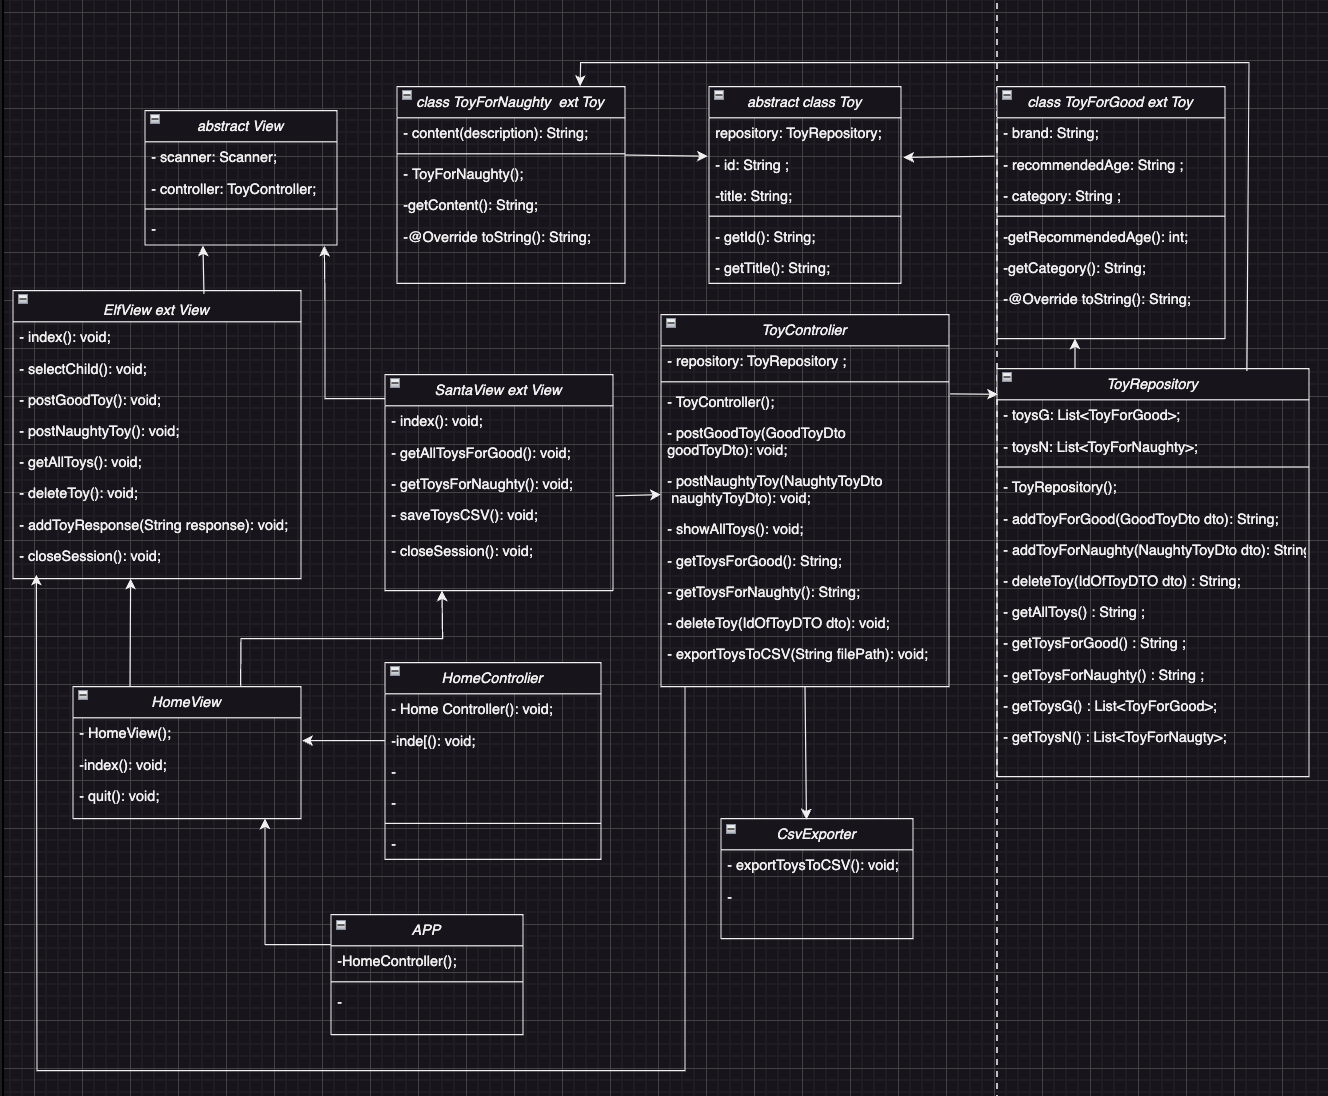
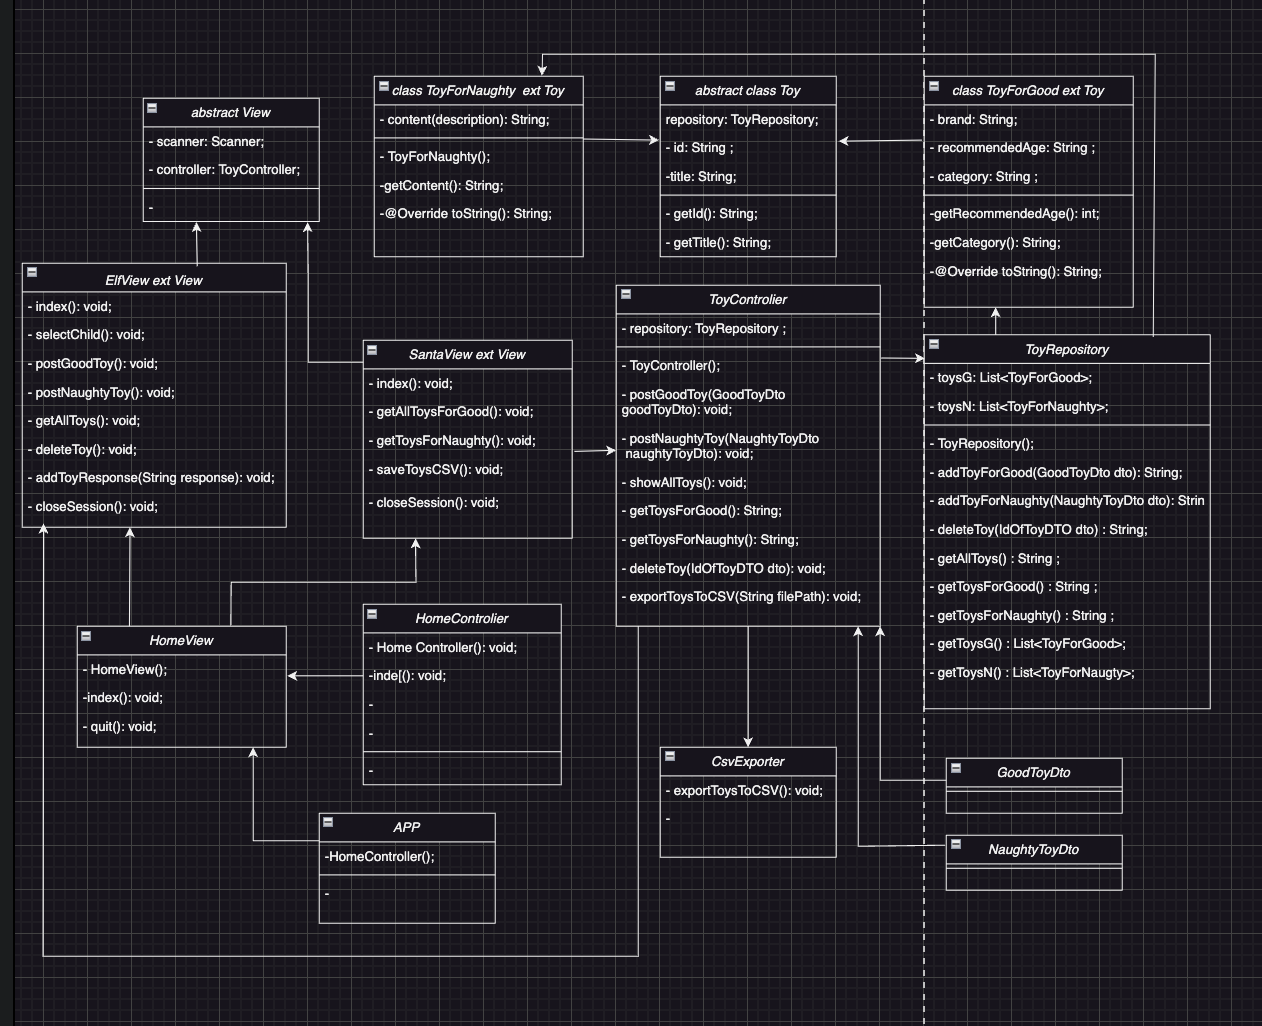
change class diagram in README

diff --git a/src/main/java/com/sheoanna/view/SantaView.java b/src/main/java/com/sheoanna/view/SantaView.java
@@ -6,7 +6,7 @@ public class SantaView extends View {
         System.out.println("-----------------------------------------");
         System.out.println("Toy Manager (Session Type: Santa)");
         System.out.println("1. See list of good children's toys");
-        System.out.println("2. See list of bad kids toys");
+        System.out.println("2. See list of naughty kids toys");
         System.out.println("3. Save list of all toys (.csv)");
         System.out.println("4. Log out");
         System.out.println("Select an option:");

diff --git a/src/main/java/com/sheoanna/repositories/ToyRepository.java b/src/main/java/com/sheoanna/repositories/ToyRepository.java
@@ -3,7 +3,6 @@ package com.sheoanna.repositories;
 import java.util.ArrayList;
 import java.util.List;
 import java.util.stream.Collectors;
-
 import com.sheoanna.dtos.GoodToyDto;
 import com.sheoanna.dtos.NaughtyToyDto;
 import com.sheoanna.models.Toy;

diff --git a/src/main/java/com/sheoanna/dtos/NaughtyToyDto.java b/src/main/java/com/sheoanna/dtos/NaughtyToyDto.java
@@ -1,4 +1,3 @@
 package com.sheoanna.dtos;
 
-public record NaughtyToyDto(String title, String content) {
-}
+public record NaughtyToyDto(String title, String content) {}
